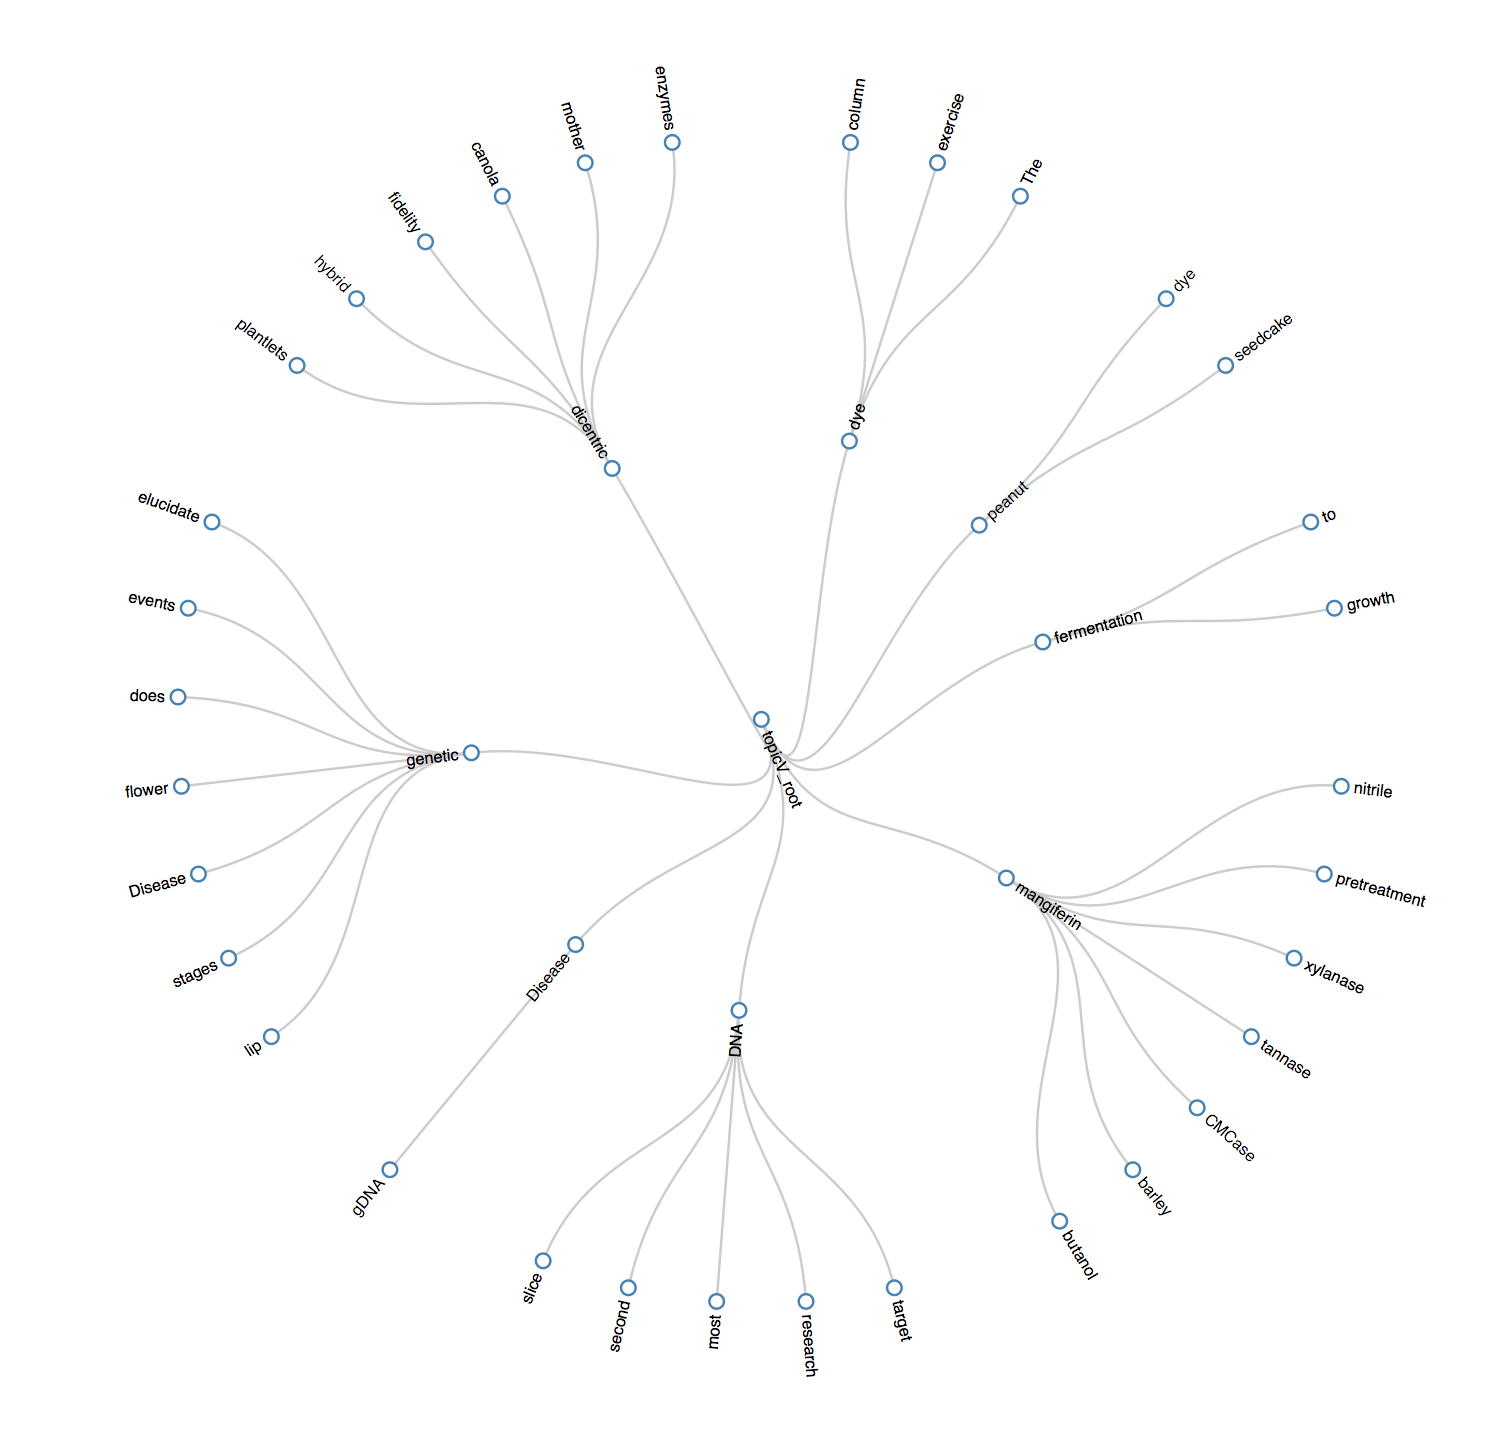
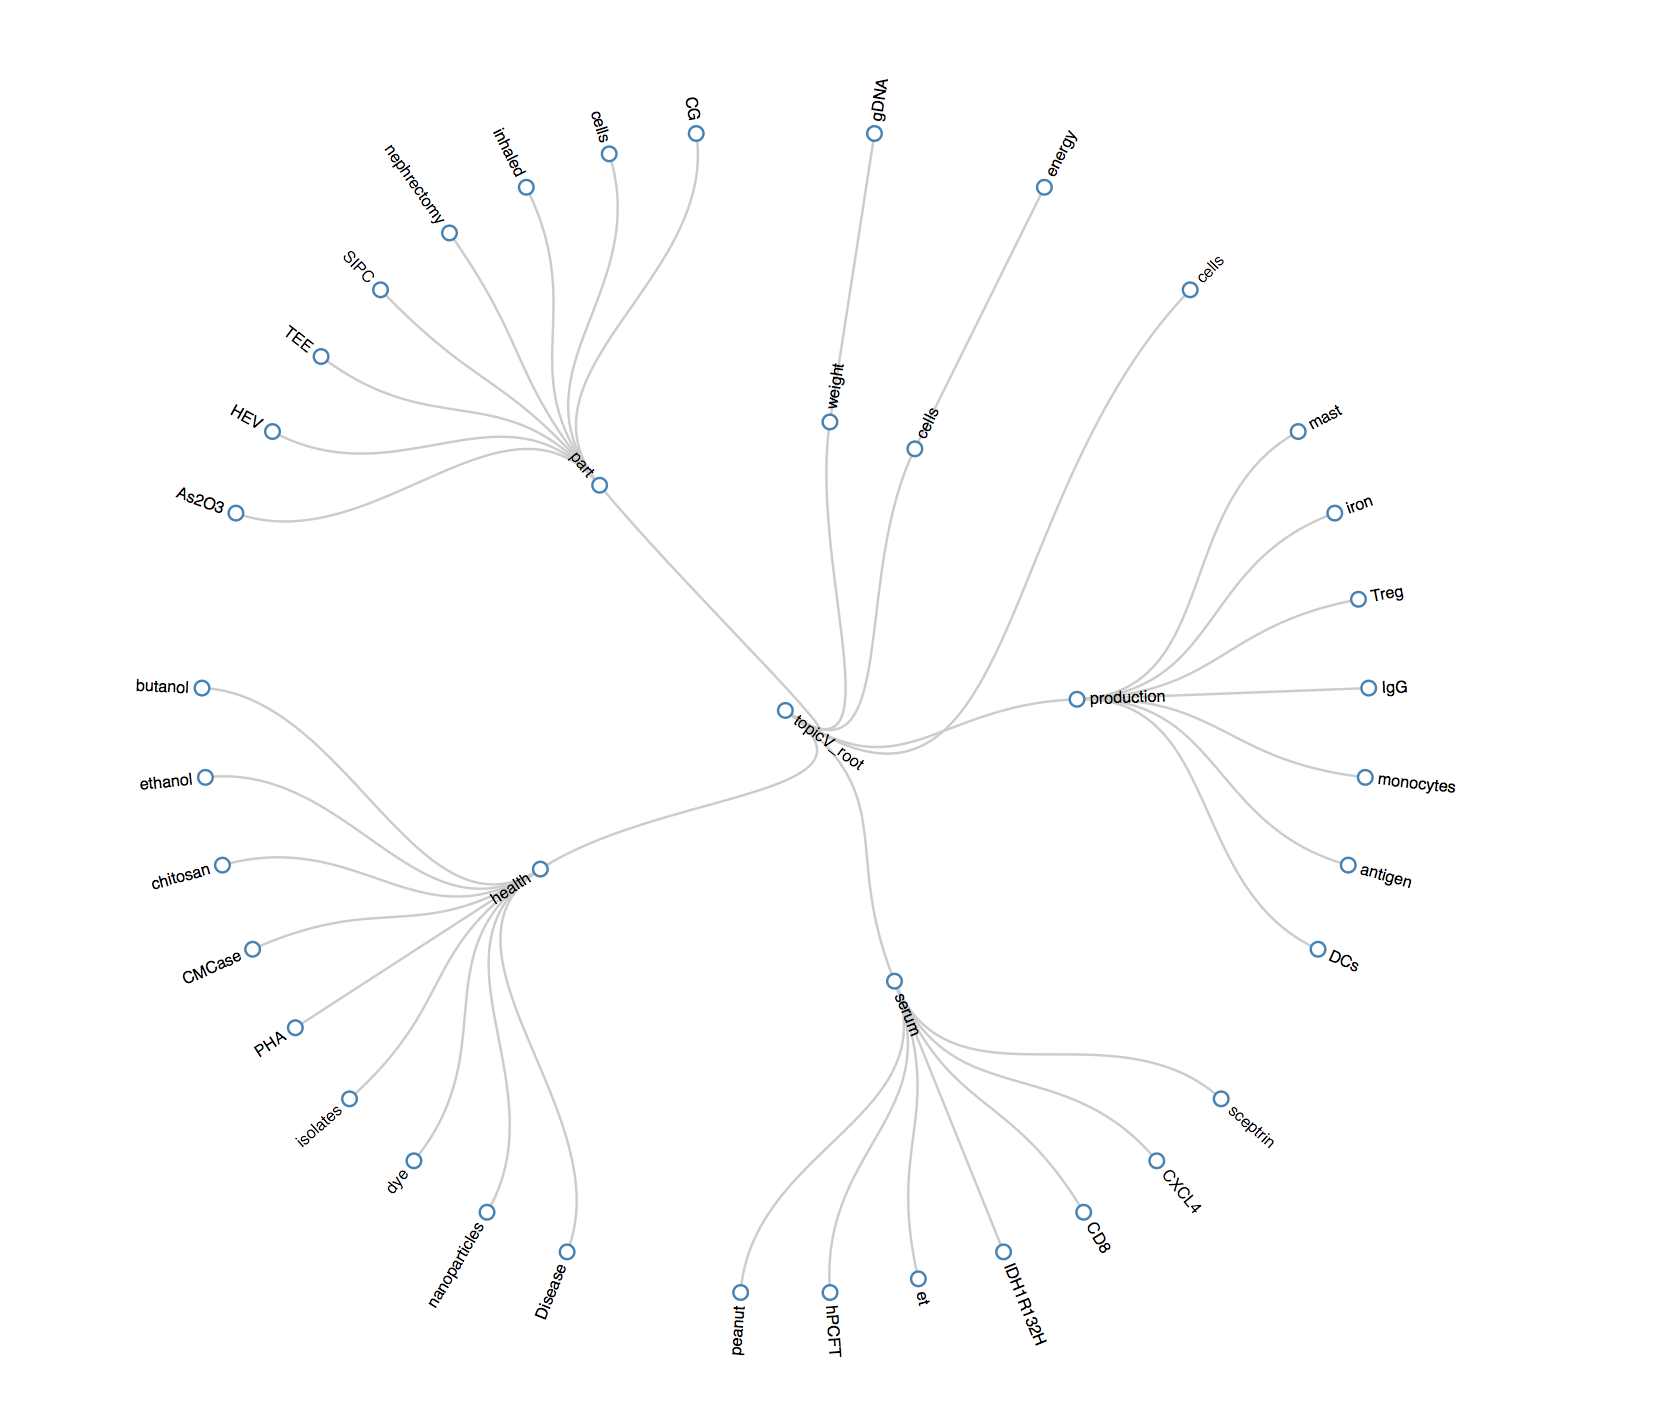
updated

diff --git a/Final_Project/lab_notebook.md b/Final_Project/lab_notebook.md
@@ -2,11 +2,12 @@
 
 # Pubmed Central Topic Visualization
 Name : Jing Yu
+
 Andrew ID: jingyu 
 
 ## Project Topic 
 
-We could use classification to extract hierarchical topic from files.  I get it to general json format and genrate flare.json to genral  json. Using 3D.js tachonologies to show different format of data visulazation. 
+ The target is utilizing the Pubmed Central (PMC) open access dataset,use classification to extract hierarchical topic from files to process the PMC dataset with a user provided term, then I get it to general json format and genrate flare.json to general  json. Using 3D.js tachonologies to show different format of data visulazation. 
 
 ## Data Source 
 
@@ -23,7 +24,8 @@ ftp://ftp.ncbi.nlm.nih.gov/pub/pmc/articles.txt.O-Z.tar.gz
 
 ## Methods In General 
 
-I attempted two methods, TF-IDF  and LDA two level 
+I attempted two methods, TF-IDF  and LDA for hierarchical topics. 
+I pick up LDA and I will explain why in following parts. 
 
 ## Method  One - TF-IDF
 
@@ -48,7 +50,7 @@ for the second level, we can gather which files are for topic 1, topic 2, etc. T
 
 ## Method  Two  - LDA  (Used in this project)
 
-    * Why I use LDA package 
+    * Why I use LDA  ? 
 
 Reason : LDA takes the relationship to words around other words into consideration, the feaure and topic extracting is more reasonable. 
 
@@ -59,6 +61,8 @@ The project is based on this package and my modification.
     * LDA in big picture
 Latent Dirichlet allocation (LDA) is a generative model that allows sets of observations to be explained by unobserved groups that explain why some parts of the data are similar. For example, if observations are words collected into documents, it posits that each document is a mixture of a small number of topics and that each word's creation is attributable to one of the document's topics.  
 We usually use mark in plate notion to represent the process: 
+
+![alt text](screenshot/notes/1.jpg "theta")
 
 α is the parameter of the Dirichlet prior on the per-document topic distributions,
 
@@ -106,10 +110,14 @@ Please refer to the next part for more detailed explaination :
 
   ```
   
-#### Fist Level Topics
-1. Load corpus from disk 
+#### Feature Extracting : Fist Level Topics 
+
+1. Load corpus from disk
+ 
 2. Create a LDA sampler
+
 3. Train the data using LDA model 
+
 4. Get the phi which have topic
 
 ```java
@@ -128,7 +136,7 @@ Please refer to the next part for more detailed explaination :
         LdaUtil.explain(topicMap); 
 ```
 
-#### First Level Result (Sample)
+#### Feature Extracting : : First Level Result (Sample)
 topic - probability matrix : 
 
 topic 0 :
@@ -157,7 +165,7 @@ non-contaminated=0.0010492813874469014
 
 ....
 
-#### Sub Topics
+#### Feature Extracting : Sub Topics
 
      * The use θ in the next level topics 
 Get the relative documents to the topic in the next level
@@ -205,7 +213,27 @@ Uisng  LDA for the hierarchical topics because LDA are more reasonable on relati
 1. Using Gson to convert the List<Object> to flat json. 
 2. Manually to trnasform the flat json to flare json used in javascript by implementing java. 
 
+```java
+    public static void convertJsontoFlare(List<FLNode> topicLevelList) throws IOException {
+
+        System.out.println("Create the flare json : \n");
+        
+        Gson gson = new Gson(); 
+        String json = gson.toJson(topicLevelList); 
+        
+        String data = "{\"name\" : \"topicV_root\", \"children\":" + json + "}";
+         
+        File file = new File("visualization/flare.json");
+
+        FileWriter fw = new FileWriter(file);
+        BufferedWriter bw = new BufferedWriter(fw);
+        bw.write(data);
+        bw.close();
+    }
+```
+
 Why I not using javascript to transform ? That is because java is more efficient and do not need I/O twice if print the falt json out to disk. 
+
 
      * Size definition 
 I use the MUL * probability of the words as their sizes.  Using this can efficiently showing their importance among other smame level topics
@@ -213,7 +241,7 @@ I use the MUL * probability of the words as their sizes.  Using this can efficie
      * Showing Three Charts
 1. Bubble chart 
 
-![alt text](screenshot/bubble/1.jpg "bubble chart")
+![alt text](screenshot/bubble/4.jpg "bubble chart")
 
 2. Cluster chart 
 
@@ -228,7 +256,6 @@ Click it !
 ![alt text](screenshot/zoomble/2.jpg "zoomble chart")
 
 Different feature showing in different charts fremwork. 
-
 
 
 #### Advantages of my training method  and visulazation
@@ -251,7 +278,7 @@ Different feature showing in different charts fremwork.
     1. To obatin the html chat result must open with firefox brower, need to set up server to run it if want open it with any brower.  
     Because  XMLHttpRequest cannot load flare.json. Cross origin requests are only supported for HTTP.    That is because the other brower cannot fetch local data in function d3.json () excepting firefox.
 
-    2.  Limited using pre knowledge for user input word , need imporve to handle with any input
+    2.  Limited using prior knowledge for user input word , need imporve to handle with any input
 
 ## Error analysis    
 
@@ -266,17 +293,22 @@ LDA are base on pre knowledge of the model, we may need more classificatied pre 
    (1) Some topics do not have sub topics 
    (2) Same topics may belong to different upper topics
   
+    4. Speed the processing for big data
+Need enhance efficiency and code optimization on handling big data.
+
 ## Future work
 
 1. Can prepare more accurate pre knowledge for my LDA adn this project
 2. Explore  more featues for determinng topics 
-3. We can try more machine learning method like TF-IDF to make comparsion
+3. We can try more machine learning method / classification like TF-IDF to make comparsion.
+4. Enhance efficiency in code and optimized code
 
 ## Pacakge Used and reason
 
 1. LDA4j : Reason stated before in section II .
 2. D3.js  using in visulazation , three type charts show.
 3. Gson : For converting to json format efficiently
+4. IKAnalyzer-2012 : Divide words
 
 ## Reference 
 
